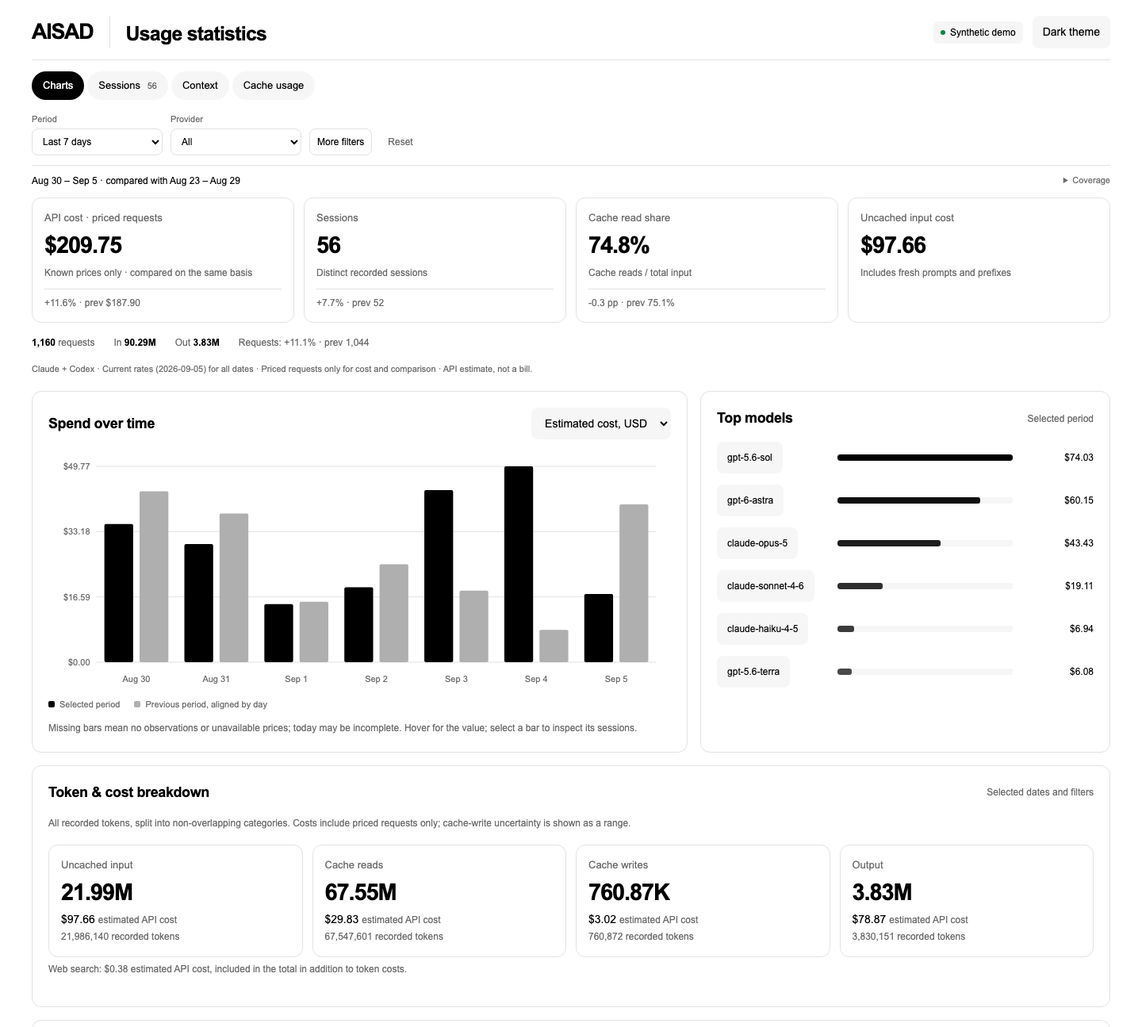
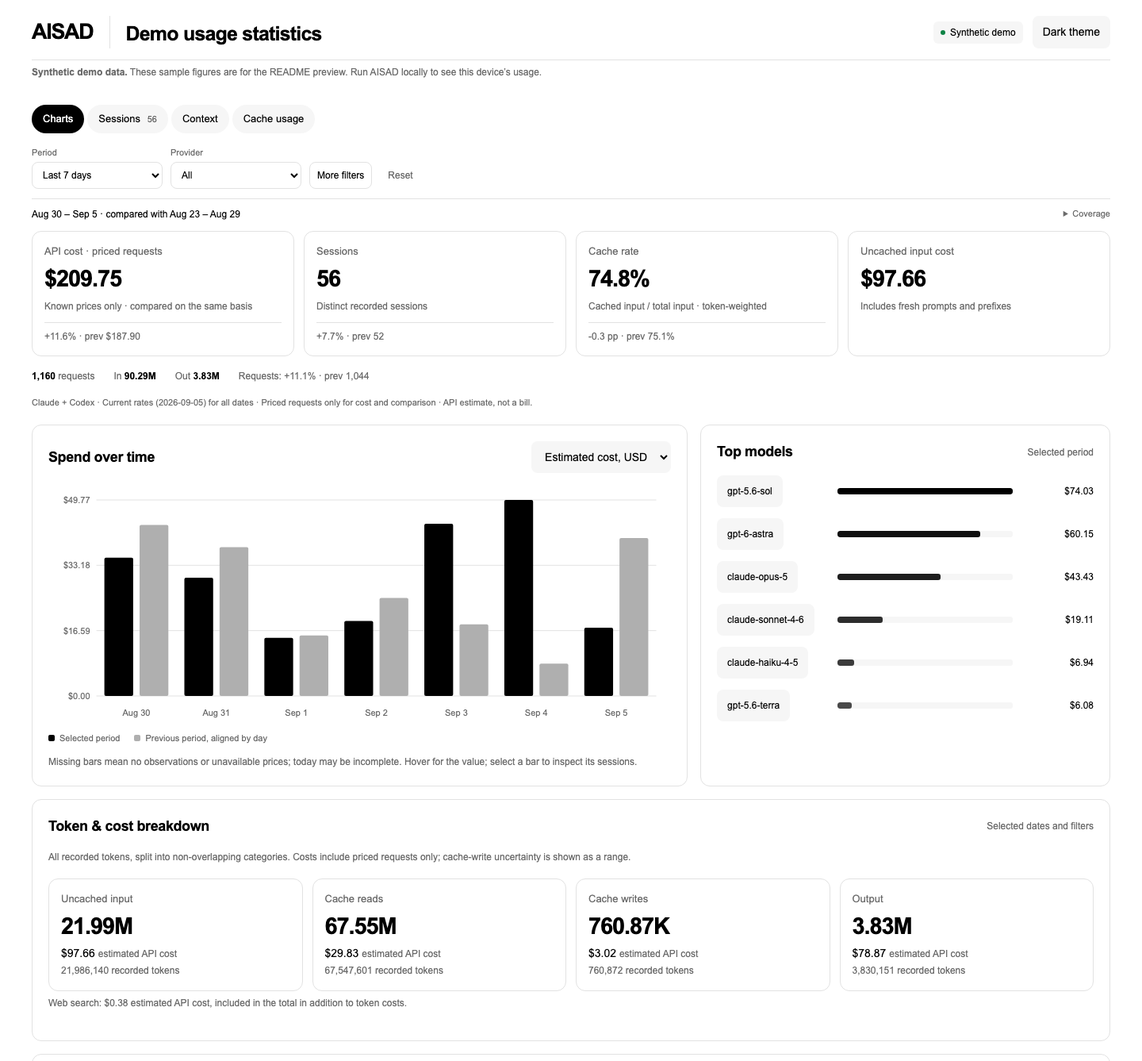
Audit usage accounting and honor recorded Codex Fast tiers

diff --git a/agent_usage.py b/agent_usage.py
@@ -24,7 +24,7 @@ import webbrowser
 from urllib.parse import unquote
 
 VERSION = '1.1.0'
-PARSER_VERSION = 8
+PARSER_VERSION = 9
 PRICE_DATE = '2026-09-05'
 # USD / million tokens: uncached, read, 5m write, output. Claude 1h writes = 2x input.
 # A versioned offline price snapshot, not provider invoices or guaranteed historical rates.
@@ -198,6 +198,10 @@ class Evidence:
             if typ in ('compacted','context_compacted') or (typ=='event_msg' and sub in ('context_compacted','compaction')):
                 return add('compaction')
             if typ=='event_msg':
+                if sub=='thread_settings_applied':
+                    settings=p.get('thread_settings')
+                    value=settings.get('service_tier') if isinstance(settings,dict) else None
+                    return add('settings',service_tier=trace_identifier(value) if isinstance(value,str) else None)
                 kind={'task_started':'turn_started','task_complete':'turn_completed',
                       'task_completed':'turn_completed','turn_aborted':'turn_aborted',
                       'error':'error','token_count':'usage'}.get(sub)
@@ -315,6 +319,11 @@ def parse_codex(path,include_titles=False):
             model=p.get('model',model);effort=p.get('effort') or p.get('reasoning_effort') or effort
             tier=p.get('service_tier') or tier;turn=p.get('turn_id') or turn
             if p.get('cwd'):project=project_name(p['cwd'])
+        if typ=='event_msg' and p.get('type')=='thread_settings_applied':
+            settings=p.get('thread_settings')
+            if isinstance(settings,dict) and isinstance(settings.get('service_tier'),str):
+                # Chronological trace evidence, never today's global config.
+                tier=settings['service_tier'];q['codex_recorded_tier_events']+=1
         if typ=='event_msg' and p.get('type')=='task_started':
             turn=p.get('turn_id') or turn
             if fork_owner and not fork_live:signals=TraceSignals();observed.pop(sid,None)
@@ -461,7 +470,7 @@ def price_request(row,catalog):
     if mode!='standard':
         if mode+'_multiplier' not in rule:return dict(cost=None,cost_high=None,cost_parts=None,price_status='unpriced_tier',assumptions=[])
         mult*=d(rule[mode+'_multiplier'])
-    elif tier in ['unknown','default',None]:assumptions.append('Standard tier assumed')
+    elif tier in ['unknown',None]:assumptions.append('Standard tier assumed')
     if row.get('geo')=='us':mult*=Decimal('1.1')
     elif row.get('geo') not in ['global']:assumptions.append('Global routing assumed')
     if row['provider']=='Claude':
@@ -493,7 +502,7 @@ def request_statistics(rows,managed_sessions=()):
         previous=None
         for index,row in enumerate(observations):
             row['pool']='managed' if session in managed else 'interactive'
-            fields=['id','session','provider','model','project','role','date','ts','input','output','cached','write','uncached','cost','cost_high','pool']
+            fields=['id','session','provider','model','project','role','date','ts','input','output','cached','write','uncached','cost','cost_high','pool','tier']
             record={key:row[key] for key in fields}
             record.update(step=index+1,gap_seconds=max(0.,row['ts']-previous['ts']) if previous else None,
                 trace_stats=row.get('trace_stats',{}),trace_observed=row.get('trace_observed',False),
@@ -863,6 +872,7 @@ def usage_totals(rows):
                   unknown_cache_ttl_tokens=sum(row['write_unknown'] for row in rows),
                   max_input_tokens=max((row['max_context'] for row in rows),default=0),
                   cache_share=result['cached_input_tokens']/result['input_tokens'] if result['input_tokens'] else None,
+                  cache_read_rate_percent=100*result['cached_input_tokens']/result['input_tokens'] if result['input_tokens'] else None,
                   cost_parts_usd=dict(zip(['uncached_input','cache_reads','cache_writes','output','web_search'],
                                          [sum(row['parts'][i] for row in rows) for i in range(5)])))
     result['uncached_input_tokens']=result['input_tokens']-result['cached_input_tokens']-result['cache_write_tokens']
@@ -1142,6 +1152,7 @@ footer{justify-content:flex-start;align-items:baseline;gap:6px 16px;margin-top:1
 <header><div class="brand"><span class="wordmark">AISAD</span><div><div class="eyebrow">Understand your agent spend</div><h1>Usage statistics</h1></div></div><div class="header-tools"><span class="badge">This device only</span><button id="theme" aria-label="Switch to dark theme">Dark theme</button></div></header>
 <section id="saved-summary" class="panel wide">__SAVED_SUMMARY__</section>
 <div id="interactive-dashboard" hidden>
+<p id="demo-notice" class="panel-intro" hidden><strong>Synthetic demo data.</strong> These sample figures are for the README preview. Run AISAD locally to see this device’s usage.</p>
 <nav class="tabs" role="tablist" aria-label="Usage views"><button id="tab-overview" role="tab" aria-selected="true" aria-controls="view-overview" data-tab="overview">Charts</button><button id="tab-sessions" role="tab" aria-selected="false" aria-controls="view-sessions" tabindex="-1" data-tab="sessions">Sessions <span class="count" id="session-count"></span></button><button id="tab-context" role="tab" aria-selected="false" aria-controls="view-context" tabindex="-1" data-tab="context">Context</button><button id="tab-cache" role="tab" aria-selected="false" aria-controls="view-cache" tabindex="-1" data-tab="cache">Cache usage</button></nav>
 <div class="filters">
 <div class="filter-bar"><label>Period<select id="period"><option value="7">Last 7 days</option><option value="this-week">This week (Mon–today)</option><option value="last-week">Last week (Mon–Sun)</option><option value="30">Last 30 days</option><option value="all">All time</option><option value="custom">Custom dates</option></select></label>
@@ -1218,7 +1229,7 @@ for(const field of ['provider','model','project']){
 setPeriod('7');
 let generatedLabel;try{generatedLabel=new Date(D.generated).toLocaleString('en-US',{timeZone:D.timezone==='System local timezone'?undefined:D.timezone})}catch{generatedLabel=D.generated}
 $('subtitle').textContent='Updated '+generatedLabel;
-if(D.demo)document.querySelector('.badge').textContent='Synthetic demo';
+if(D.demo){document.querySelector('.badge').textContent='Synthetic demo';$('demo-notice').hidden=false;document.querySelector('h1').textContent='Demo usage statistics'}
 $('coverage').textContent=Object.entries(D.history_coverage||{}).map(([provider,h])=>provider+': '+(h.first_date?h.first_date+' – '+h.last_date:'no records')).join(' · ')+(D.quality.registry_without_trace?' · '+integer(D.quality.registry_without_trace)+' registered Codex sessions have no trace. ':' · ')+(D.summary.files?`Found ${integer(D.summary.files)} local files. Codex: ${D.summary.traces_codex} traces across ${D.summary.registry_codex} registered threads. Missing traces are not estimated. Cloud chats are not included.`:'No local traces found. Run Codex or Claude Code on this device, or set --codex-dir / --claude-dir.');
 function chosen(r,range=selectedRange()){
     return Boolean(range&&r.date>=range.from&&r.date<=range.to&&['provider','model','project'].every(f=>!$(f).value||r[f]===$(f).value)&&(!$('role').value||r.role===$('role').value)&&(!$('pool').value||(r.pool||'interactive')===$('pool').value));
@@ -1332,7 +1343,7 @@ function showTab(name){
 function openSession(id){
     const rs=selectedRecords().filter(r=>r.session===id).sort((a,b)=>a.ts-b.ts||a.step-b.step),a=aggregate(recordRows(rs)),d=telemetry(rs);
     $('session-title').textContent=sessionLabel(id);$('session-caption').textContent=`${rangeLabel(selectedRange())} · Selected filters · ${[...new Set(rs.map(r=>r.model))].join(', ')} · ${integer(d.traceRecords)} of ${integer(rs.length)} usage records have message/tool telemetry.`;
-    $('session-cards').innerHTML=miniCards([['API estimate',cost(a),'For requests within these filters'],['Peak input',rs.length?compact(a.max_context):'—','Measured request input, including cache'],['Cache read share',pct(a.cache),'Weighted by input tokens']]);
+    $('session-cards').innerHTML=miniCards([['API estimate',cost(a),'For requests within these filters'],['Peak input',rs.length?compact(a.max_context):'—','Measured request input, including cache'],['Cache rate',pct(a.cache),'Weighted by input tokens']]);
     if(rs.length){
         const w=900,h=200,L=54,R=18,T=18,B=30,max=Math.max(...rs.map(r=>r.input),1),x=i=>L+i*(w-L-R)/Math.max(1,rs.length-1),y=v=>h-B-v/max*(h-T-B);
         let svg=`<svg viewBox="0 0 ${w} ${h}" role="img" aria-label="Input context and cached input for each recorded request">`;
@@ -1358,7 +1369,7 @@ function renderStatistics(rs,ar,a,d){
     bars('context-chart',groups(rs,'session').sort((a,b)=>b.max_context-a.max_context).slice(0,8).map(g=>({...g,label:sessionLabel(g.name)})),'max_context');
     $('tool-chart').innerHTML=d.traceRecords?`<div class="mini-grid">${miniCards([['Recorded tool results',bytes(d.stats.tool_bytes||0),integer(d.stats.tool_results||0)+' results'],['Tool calls',integer(d.stats.tool_calls||0),'Structured calls before usage observations']])}</div>`:'<div class="empty">No message/tool telemetry available.</div>';
     $('tool-coverage').textContent=`${integer(d.traceRecords)} / ${integer(ar.length)} records have message/tool telemetry. Payloads are associated with the next observed usage event; their exact billed token impact is unavailable.`;
-    $('cache-cards').innerHTML=miniCards([['Cache reads',a.requests?compact(a.cached):'—',componentCost(a,1)+' estimated API cost'],['Cache writes',a.requests?compact(a.write):'—',componentCost(a,2)+' estimated API cost'],['Uncached input',a.requests?compact(a.input-a.cached-a.write):'—',componentCost(a,0)+' estimated API cost'],['Cache read share',pct(a.cache),'Cache reads / all input tokens']]);
+    $('cache-cards').innerHTML=miniCards([['Cache reads',a.requests?compact(a.cached):'—',componentCost(a,1)+' estimated API cost'],['Cache writes',a.requests?compact(a.write):'—',componentCost(a,2)+' estimated API cost'],['Uncached input',a.requests?compact(a.input-a.cached-a.write):'—',componentCost(a,0)+' estimated API cost'],['Cache rate',pct(a.cache),'Cached input / total input · token-weighted']]);
     $('cache-table').innerHTML='<thead><tr><th>Model</th><th>Total input</th><th>Uncached input</th><th>Cache reads</th><th>Cache writes</th><th>Read share</th><th>Uncached cost</th><th>Read cost</th><th>Write cost</th></tr></thead><tbody>'+groups(rs,'model').sort((a,b)=>b.input-a.input).map(g=>`<tr><td>${esc(g.name)}</td><td>${integer(g.input)}</td><td>${integer(g.input-g.cached-g.write)}</td><td>${integer(g.cached)}</td><td>${integer(g.write)}</td><td>${pct(g.cache)}</td><td>${componentCost(g,0)}</td><td>${componentCost(g,1)}</td><td>${componentCost(g,2)}</td></tr>`).join('')+'</tbody>';
 
 }
@@ -1381,7 +1392,7 @@ function render(){
     const values=[
         ['cost','API cost · priced requests',cost(a),'Known prices only · compared on the same basis',usageDelta(a,b,'cost',previous)],
         ['sessions','Sessions',integer(a.sessions.size),'Distinct recorded sessions',usageDelta(a,b,'sessions',previous)],
-        ['cache','Cache read share',pct(a.cache),'Cache reads / total input',usageDelta(a,b,'cache',previous)],
+        ['cache','Cache rate',pct(a.cache),'Cached input / total input · token-weighted',usageDelta(a,b,'cache',previous)],
         ['uncached','Uncached input cost',a.requests>a.unpriced?usd(a.parts[0]):'—','Includes fresh prompts and prefixes',''],
     ];
     $('cards').innerHTML=values.map(([id,label,value,note,delta])=>`<div class="card" id="card-${id}"><label>${label}</label><div class="value">${value}</div><small>${note}</small>${delta?`<span class="delta">${esc(delta)}</span>`:''}</div>`).join('');
@@ -1422,11 +1433,11 @@ function renderSessionEvidence(id,rs){
     }else $('session-lifecycle').textContent='No lifecycle evidence in this snapshot.';
     const preview=D.event_previews?.[id]||[],events=preview.filter(e=>e.date&&range&&e.date>=range.from&&e.date<=range.to&&(!$('model').value||!e.model||e.model===$('model').value));
     $('events-note').textContent=`${integer(events.length)} events shown for these dates from the latest ${integer(preview.length)} retained in this session’s offline preview. Full history and pagination: session --session ${id} --json. The database contains ${integer(meta?.event_count||preview.length)} lifetime events. Missing timestamps cannot be placed in this date range.`;
-    $('events-table').innerHTML='<thead><tr><th>Observed time</th><th>Event</th><th>Recorded details</th><th>Evidence</th></tr></thead><tbody>'+events.map(e=>`<tr><td>${esc(observedTime(e.ts))}</td><td>${esc(e.kind.replaceAll('_',' '))}</td><td>${esc(e.tool||e.role||e.model||'')}${e.result_bytes!=null?' · '+bytes(e.result_bytes):e.kind==='tool_result'?' · size unavailable':''}${e.error===true?' · error recorded':''}</td><td><details><summary>Source ${integer(e.evidence[0]?.line||0)}</summary>${sourceReferences(e.evidence)}</details></td></tr>`).join('')+'</tbody>';
+    $('events-table').innerHTML='<thead><tr><th>Observed time</th><th>Event</th><th>Recorded details</th><th>Evidence</th></tr></thead><tbody>'+events.map(e=>`<tr><td>${esc(observedTime(e.ts))}</td><td>${esc(e.kind.replaceAll('_',' '))}</td><td>${esc(e.tool||e.role||e.service_tier||e.model||'')}${e.result_bytes!=null?' · '+bytes(e.result_bytes):e.kind==='tool_result'?' · size unavailable':''}${e.error===true?' · error recorded':''}</td><td><details><summary>Source ${integer(e.evidence[0]?.line||0)}</summary>${sourceReferences(e.evidence)}</details></td></tr>`).join('')+'</tbody>';
 }
 function inspectObservation(id){
     const r=records.find(r=>r.id===id);if(!r)return;
-    $('observation-detail').innerHTML=`<h3>Usage observation ${integer(r.step)}</h3><p>${esc(observedTime(r.ts))} · ${esc(r.model)}</p><p>Measured input: ${integer(r.input)} · cache reads: ${integer(r.cached)} · output: ${integer(r.output)}.</p><p>Estimated API cost: ${moneyRange(r.cost,r.cost_high)}. Price status: ${esc(r.price_status||'unknown')}.</p><p>Context composition and billed tool attribution: unavailable.</p><h3>Source records</h3>${sourceReferences(r.evidence||[])}<small>File paths are available in the local session JSON and sessions.sqlite. Conversation text and tool payloads are not copied into this report.</small>`;
+    $('observation-detail').innerHTML=`<h3>Usage observation ${integer(r.step)}</h3><p>${esc(observedTime(r.ts))} · ${esc(r.model)} · Processing tier: ${esc(r.tier||'unknown')}</p><p>Measured input: ${integer(r.input)} · cache reads: ${integer(r.cached)} · output: ${integer(r.output)}.</p><p>Estimated API cost: ${moneyRange(r.cost,r.cost_high)}. Price status: ${esc(r.price_status||'unknown')}.</p><p>Context composition and billed tool attribution: unavailable.</p><h3>Source records</h3>${sourceReferences(r.evidence||[])}<small>File paths are available in the local session JSON and sessions.sqlite. Conversation text and tool payloads are not copied into this report.</small>`;
     $('observation-detail').hidden=false;$('observation-detail').scrollIntoView({block:'nearest'});
 }
 function navigateEvidence(target){
@@ -1459,6 +1470,7 @@ def saved_summary(snapshot):
     rows=snapshot.get('rows',[])
     today=snapshot.get('as_of_date') or snapshot.get('generated','')[:10]
     intro='<h2>Saved usage summary</h2><p id="startup-note" class="panel-intro">Interactive charts require JavaScript. These saved totals are available without it.</p>'
+    if snapshot.get('demo'):intro='<p><strong>Synthetic demo data.</strong> Sample figures for the README preview.</p>'+intro
     if not today:
         return intro+'<p>No usage snapshot is available.</p>'
     end=dt.date.fromisoformat(today);monday=end-dt.timedelta(days=end.weekday())

diff --git a/test_recorded_tiers.py b/test_recorded_tiers.py
@@ -1,0 +1,59 @@
+"""Recorded processing tiers affect prices, never token counts."""
+import json
+from pathlib import Path
+import tempfile
+import unittest
+
+import agent_usage as app
+
+
+class RecordedTierTests(unittest.TestCase):
+    def test_settings_changes_apply_only_to_subsequent_usage(self):
+        records=[dict(type='session_meta',payload=dict(id='one')),
+                 dict(type='turn_context',payload=dict(model='gpt-5.6-sol'))]
+        counter=0
+        def usage():
+            nonlocal counter
+            counter+=1
+            records.append(dict(type='event_msg',timestamp=f'2026-09-01T01:00:{counter:02d}Z',
+                payload=dict(type='token_count',info=dict(
+                    last_token_usage=dict(input_tokens=1000,cached_input_tokens=800,cache_write_input_tokens=100,output_tokens=50,reasoning_output_tokens=30),
+                    total_token_usage=dict(input_tokens=1000*counter,output_tokens=50*counter,total_tokens=1050*counter)))))
+        def settings(value):
+            records.append(dict(type='event_msg',payload=dict(type='thread_settings_applied',thread_settings=value)))
+        usage() # Unmarked history must not borrow the later Fast tier.
+        settings({'service_tier':'priority'});usage()
+        settings({'unrelated':'value'});usage()
+        settings({'service_tier':'default'});usage()
+        settings({'service_tier':'future-mode'});usage()
+        with tempfile.TemporaryDirectory() as folder:
+            source=Path(folder)/'trace.jsonl'
+            source.write_text(''.join(json.dumps(r)+'\n' for r in records))
+            parsed=app.parse_codex(source)
+        rows=parsed['requests']
+        self.assertEqual([r['tier'] for r in rows],['unknown','priority','priority','default','future-mode'])
+        prices=[app.price_request(r,app.default_prices()) for r in rows]
+        self.assertAlmostEqual(prices[1]['cost'],2*prices[0]['cost'])
+        self.assertAlmostEqual(prices[2]['cost'],prices[1]['cost'])
+        self.assertAlmostEqual(prices[3]['cost'],prices[0]['cost'])
+        self.assertIn('Standard tier assumed',prices[0]['assumptions'])
+        self.assertNotIn('Standard tier assumed',prices[3]['assumptions'])
+        self.assertIsNone(prices[4]['cost'])
+        self.assertEqual(prices[4]['price_status'],'unknown_tier')
+        self.assertEqual(sum(r['input']+r['output'] for r in rows),5250)
+        self.assertTrue(all(r['input']==r['uncached']+r['cached']+r['write'] for r in rows))
+        self.assertEqual(parsed['quality']['codex_recorded_tier_events'],3)
+        self.assertEqual(len([e for e in parsed['events'] if e['kind']=='settings']),4)
+
+    def test_cross_provider_buckets_and_reasoning_are_counted_once(self):
+        claude=app.normalize_usage(dict(input_tokens=100,cache_read_input_tokens=800,
+            cache_creation_input_tokens=100,cache_creation={'ephemeral_5m_input_tokens':100},output_tokens=50),'Claude')
+        codex=app.normalize_usage(dict(input_tokens=1000,cached_input_tokens=800,
+            cache_write_input_tokens=100,output_tokens=50,reasoning_output_tokens=30),'Codex')
+        for row in [claude,codex]:
+            self.assertEqual((row['input'],row['uncached'],row['cached'],row['write'],row['output'],row['total']),
+                             (1000,100,800,100,50,1050))
+        self.assertEqual(sum(r['total'] for r in [claude,codex]),2100)
+
+
+if __name__=='__main__':unittest.main()

diff --git a/test_usage.py b/test_usage.py
@@ -34,6 +34,7 @@ class ReportTests(unittest.TestCase):
         totals=report['current']['totals']
         self.assertEqual(totals['uncached_input_tokens'],550)
         self.assertEqual(totals['cached_input_tokens'],850)
+        self.assertAlmostEqual(totals['cache_read_rate_percent'],850/1500*100)
         self.assertEqual(totals['cache_write_tokens'],100)
         self.assertEqual(sum(totals[k] for k in ['uncached_input_tokens','cached_input_tokens','cache_write_tokens']),totals['input_tokens'])
         self.assertEqual(sum(totals['cost_parts_usd'].values()),totals['estimated_cost_usd'])

diff --git a/docs/ACCOUNTING.md b/docs/ACCOUNTING.md
@@ -1,0 +1,55 @@
+# Usage accounting
+
+Reviewed against provider documentation and comparable tools on September 7, 2026.
+
+AISAD reads existing local records when invoked. It counts recorded usage observations, not user prompts or unique pieces of text. Reusing the same cached prefix on ten model calls legitimately contributes ten cache reads. Repeated delivery or copied history of the same observation must be deduplicated.
+
+## Token categories
+
+| Source | Total input | Uncached input | Output |
+| --- | --- | --- | --- |
+| Claude Code | `input_tokens + cache_read_input_tokens + cache_creation_input_tokens` | `input_tokens` | `output_tokens` |
+| Codex | `input_tokens` | `input_tokens - cached_input_tokens - cache_write_input_tokens` | `output_tokens` |
+
+The normalized input categories are disjoint: uncached input + cache reads + cache writes = total input. Input + output = total processed tokens. Codex reasoning output is already part of output and must not be added again. Cache-write usage is read when recorded; it is never inferred from context growth or a pause.
+
+Claude's definitions are documented in [prompt caching](https://platform.claude.com/docs/en/build-with-claude/prompt-caching). OpenAI's [cache usage examples and write/read pricing](https://developers.openai.com/api/docs/guides/prompt-caching) show that cached and written tokens belong within input. The [Codex token protocol](https://github.com/openai/codex/blob/0e9589ffae082437e6793e8c24900e876dfdf86a/codex-rs/protocol/src/protocol.rs) distinguishes latest usage, cumulative counters and context-window bookkeeping.
+
+## Cache rate
+
+`cache rate = sum(cache-read tokens) / sum(total input tokens)`
+
+This is a token-weighted read rate, not the average of per-request percentages, the percentage of requests with any hit, or the fraction of context currently occupied. Cache writes are included in the denominator but not the numerator. The JSON retains `cache_share` as a fraction and additionally exposes `cache_read_rate_percent`; empty input produces null.
+
+## Cost
+
+For each observation, sum the uncached-input, cache-read, cache-write and output components using that model's applicable rates and recorded processing mode. Add recorded billable tool charges separately. Five-minute and one-hour Claude writes use their respective rates; unrecorded TTL produces a range. Current prices come from [OpenAI](https://developers.openai.com/api/docs/pricing) and [Claude](https://platform.claude.com/docs/en/about-claude/pricing).
+
+Codex can record mode changes in `event_msg/thread_settings_applied`. A recorded `priority` or legacy `fast` value applies to subsequent observations; a recorded `default` restores Standard. Unrelated settings do not reset the last tier. Unknown explicit tiers remain unpriced. Unmarked history uses the existing, disclosed Standard assumption; AISAD does not apply the current global configuration retroactively. Fast multipliers come from the model's price rule, not a universal assumption about every model.
+
+Version 1.1.0's accounting audit fixed a missing reader for these settings events. Before that fix, Fast observations without a tier in `turn_context` were priced as Standard. Token counts and cache rates were unaffected. The parser cache version is incremented so old parsed records are refreshed.
+
+These amounts are API-equivalent estimates, not subscription charges or provider invoices. The bundled catalog applies its rates to every date; it does not reconstruct historical discounts. Use dated price overrides for known historical rates. Unknown models/modes are excluded from cost and identified; their recorded tokens remain included.
+
+## Deduplication and counters
+
+- Claude: use message identifiers to coalesce streamed updates and copied history; retain one coherent input snapshot and final/max output. SDK cumulative cost reports remain separate.
+- Codex: use `last_token_usage` for a recorded usage observation. An unchanged consecutive cumulative counter identifies a repeated snapshot. A reset begins a new sequence. Recognized fork prefixes are excluded before counting the child's local usage; unresolved fork boundaries are reported.
+- Cumulative counters must not be summed as if each value were a new request. A delta can also include history imported into a session or a bookkeeping reset, so it must not blindly replace an available per-request observation.
+- Current AISAD does not recover observations when `last_token_usage` is absent; it reports `quality.codex_missing_last_usage`. Missing logs cannot be reconstructed. Counts represent observed records, not a guaranteed count of every provider API request.
+
+## Comparison with other tools
+
+| Tool/source inspected | Accounting choices |
+| --- | --- |
+| [ccusage Codex parser](https://github.com/ccusage/ccusage/blob/f748ae59436bb9f26aabad2820d086c54749603d/rust/adapters/codex/src/parser.rs) | Prefers latest-request usage when available and cumulative counters have advanced; falls back to cumulative subtraction. Reads chronological tier settings. |
+| [ccusage Claude parser](https://github.com/ccusage/ccusage/blob/f748ae59436bb9f26aabad2820d086c54749603d/rust/adapters/claude/src/daily.rs) | Adds input, cache-read, cache-creation and output fields; uses message/request identity and sidechain handling for duplicates. |
+| [Token Use Codex documentation](https://tokenuse.app/docs/development/tools/codex/) | Prefers cumulative deltas and uses latest usage as a fallback; deduplicates by session lineage. |
+
+These tools establish useful cross-checks, not an invoice oracle. Results can differ because of source discovery, date boundaries, identity/fork rules, latest-versus-cumulative preference, model fallback and pricing assumptions. ccusage also supports stored-cost versus recalculated-cost modes; compare equivalent modes and dates ([cost modes](https://ccusage.com/guide/cost-modes)). This review inspected documentation and source; it did not upload local logs or run another tool's installer.
+
+## Comparing snapshots
+
+Use the same device, source files, dates, timezone, provider/model filters, price catalog and processing modes. The rolling seven-day window changes daily. Newly saved files can add older observations. README screenshots are synthetic examples and cannot be compared with personal reports.
+
+An audit should independently sum raw usage fields after deduplication, reconcile input buckets and cost components, test repeated counters/resets/streaming/forks, and inspect missing-price and source-coverage diagnostics. Browser totals should then reconcile with the resulting JSON and SQLite observations. No hooks, background polling or tool instrumentation are required.

diff --git a/CHANGELOG.md b/CHANGELOG.md
@@ -2,6 +2,8 @@
 
 ## 1.1.0 — on-demand session evidence (unreleased)
 
+- Read chronological Codex `thread_settings_applied` tier changes so recorded Fast usage is priced correctly; invalidate cached parser results. Add processing-tier evidence and accounting regression checks.
+- Label the token-weighted metric as Cache rate, expose its percentage in JSON, and prominently identify synthetic demo figures. Document the accounting audit and comparable tools.
 - Replace dashboard spend-pool cards with uncached input, cache-read, cache-write and output token/cost breakdowns. Expose cache-write cost ranges by component in the UI and JSON.
 
 - Add a transactional local SQLite event database with usage observations, session/turn relationships, tool-call metadata, context observations and file/line provenance.

diff --git a/README.md b/README.md
@@ -8,6 +8,8 @@ An independent, on-demand analyzer of local Claude Code and Codex session files.
 
 *Example dashboard with synthetic sessions. The screenshot contains no personal usage data.*
 
+For the exact token formulas, cache-rate definition, pricing assumptions and comparisons with ccusage and Token Use, see [Usage accounting](docs/ACCOUNTING.md).
+
 ## Quick start
 
 Clone into a writable directory and build a snapshot:
